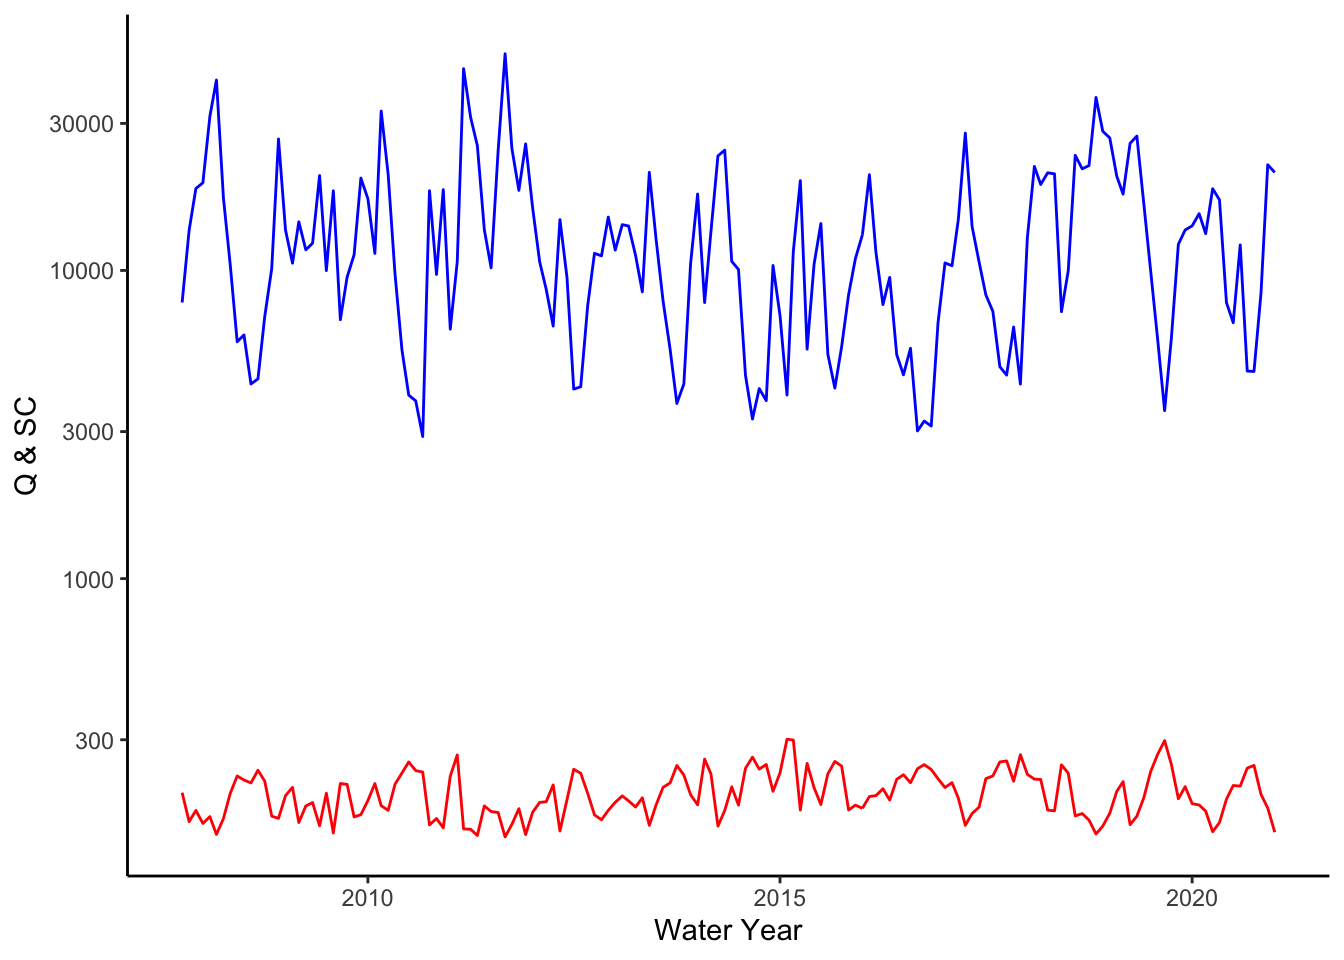
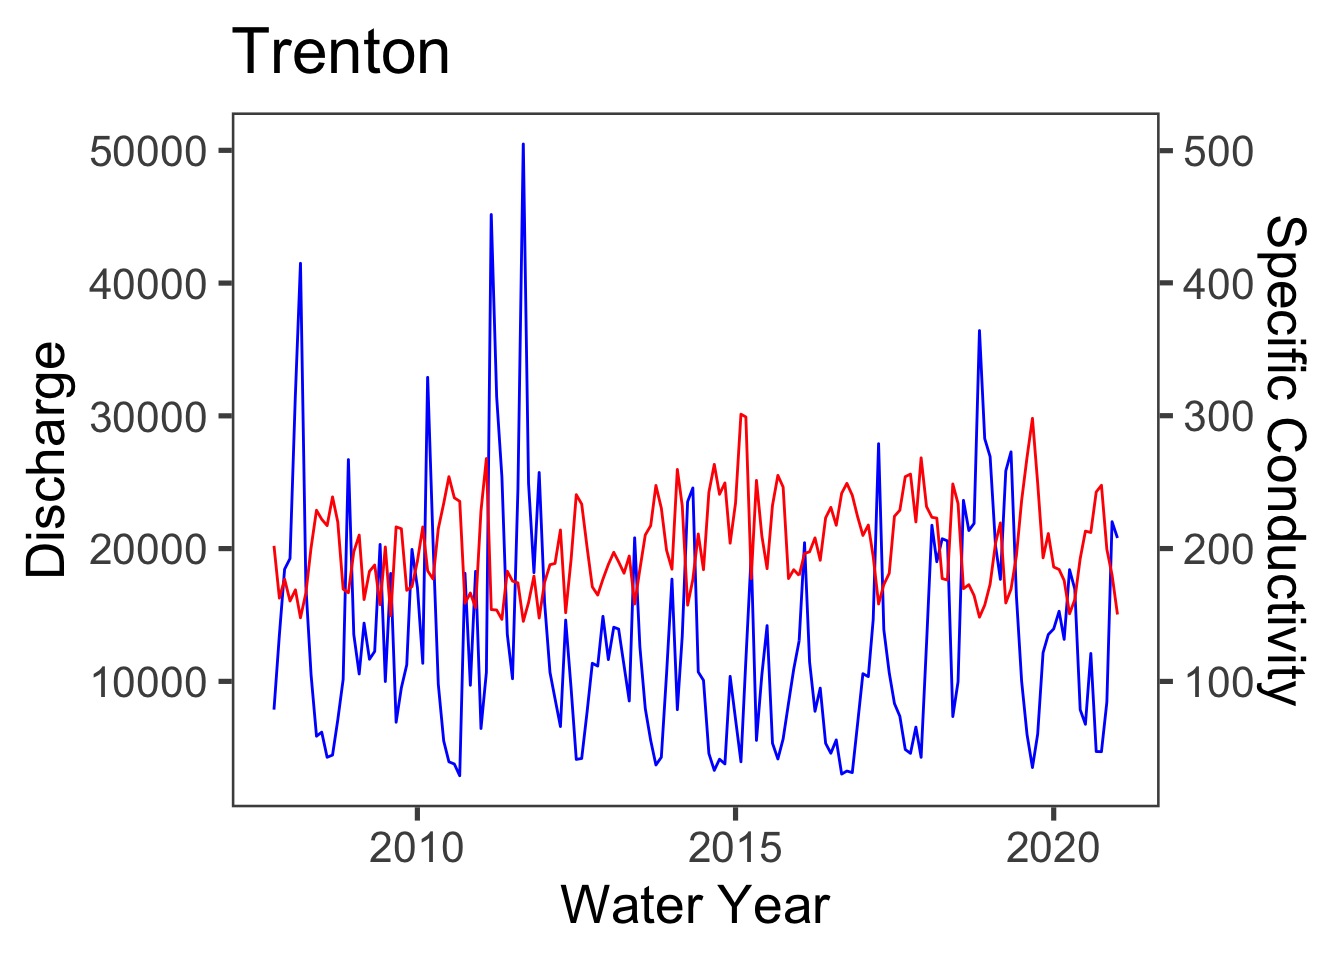
double axis plot

diff --git a/docs/results.html b/docs/results.html
@@ -141,7 +141,6 @@ code span.wa { color: #60a0b0; font-weight: bold; font-style: italic; } /* Warni
 <li class="chapter" data-level="2.2" data-path="methods.html"><a href="methods.html#watershed-map"><i class="fa fa-check"></i><b>2.2</b> Watershed map<span></span></a></li>
 <li class="chapter" data-level="2.3" data-path="methods.html"><a href="methods.html#data-acquisition"><i class="fa fa-check"></i><b>2.3</b> Data Acquisition<span></span></a></li>
 <li class="chapter" data-level="2.4" data-path="methods.html"><a href="methods.html#data-plot"><i class="fa fa-check"></i><b>2.4</b> Data plot<span></span></a></li>
-<li class="chapter" data-level="2.5" data-path="methods.html"><a href="methods.html#head"><i class="fa fa-check"></i><b>2.5</b> &lt;&lt;&lt;&lt;&lt;&lt;&lt; HEAD<span></span></a></li>
 </ul></li>
 <li class="chapter" data-level="3" data-path="results.html"><a href="results.html"><i class="fa fa-check"></i><b>3</b> Results<span></span></a>
 <ul>
@@ -367,15 +366,46 @@ values.</p>
 <span id="cb17-14"><a href="results.html#cb17-14" aria-hidden="true" tabindex="-1"></a></span>
 <span id="cb17-15"><a href="results.html#cb17-15" aria-hidden="true" tabindex="-1"></a>q_sc_t <span class="ot">&lt;-</span> <span class="fu">right_join</span>(q_month_means, sc_mean_t, <span class="at">by =</span> <span class="st">&#39;Date&#39;</span>)</span>
 <span id="cb17-16"><a href="results.html#cb17-16" aria-hidden="true" tabindex="-1"></a></span>
-<span id="cb17-17"><a href="results.html#cb17-17" aria-hidden="true" tabindex="-1"></a></span>
-<span id="cb17-18"><a href="results.html#cb17-18" aria-hidden="true" tabindex="-1"></a><span class="fu">ggplot</span>(q_sc_t) <span class="sc">+</span></span>
-<span id="cb17-19"><a href="results.html#cb17-19" aria-hidden="true" tabindex="-1"></a>  <span class="fu">geom_line</span>(<span class="fu">aes</span>(<span class="at">x =</span> Date, <span class="at">y =</span> q_mean),  <span class="at">color =</span><span class="st">&quot;blue&quot;</span>) <span class="sc">+</span></span>
-<span id="cb17-20"><a href="results.html#cb17-20" aria-hidden="true" tabindex="-1"></a>  <span class="fu">geom_line</span>(<span class="fu">aes</span>(<span class="at">x =</span> Date, <span class="at">y =</span> sc_mean1), <span class="at">color =</span> <span class="st">&quot;red&quot;</span>)<span class="sc">+</span></span>
+<span id="cb17-17"><a href="results.html#cb17-17" aria-hidden="true" tabindex="-1"></a>p1 <span class="ot">&lt;-</span> <span class="fu">ggplot</span>(q_sc_t) <span class="sc">+</span></span>
+<span id="cb17-18"><a href="results.html#cb17-18" aria-hidden="true" tabindex="-1"></a>  <span class="fu">geom_line</span>(<span class="fu">aes</span>(<span class="at">x =</span> Date, <span class="at">y =</span> q_mean),  <span class="at">color =</span><span class="st">&quot;blue&quot;</span>) <span class="sc">+</span></span>
+<span id="cb17-19"><a href="results.html#cb17-19" aria-hidden="true" tabindex="-1"></a>  <span class="fu">geom_line</span>(<span class="fu">aes</span>(<span class="at">x =</span> Date, <span class="at">y =</span> sc_mean1<span class="sc">*</span><span class="dv">100</span>), <span class="at">color =</span> <span class="st">&quot;red&quot;</span>)<span class="sc">+</span></span>
+<span id="cb17-20"><a href="results.html#cb17-20" aria-hidden="true" tabindex="-1"></a>  <span class="fu">xlab</span>(<span class="st">&#39;Water Year&#39;</span>)<span class="sc">+</span></span>
 <span id="cb17-21"><a href="results.html#cb17-21" aria-hidden="true" tabindex="-1"></a>  <span class="fu">scale_y_log10</span>()<span class="sc">+</span></span>
-<span id="cb17-22"><a href="results.html#cb17-22" aria-hidden="true" tabindex="-1"></a>  <span class="fu">ylab</span>(<span class="st">&#39;Q &amp; SC&#39;</span>) <span class="sc">+</span></span>
-<span id="cb17-23"><a href="results.html#cb17-23" aria-hidden="true" tabindex="-1"></a>  <span class="fu">xlab</span>(<span class="st">&#39;Water Year&#39;</span>)<span class="sc">+</span></span>
-<span id="cb17-24"><a href="results.html#cb17-24" aria-hidden="true" tabindex="-1"></a>  <span class="fu">theme_classic</span>()</span></code></pre></div>
+<span id="cb17-22"><a href="results.html#cb17-22" aria-hidden="true" tabindex="-1"></a>  <span class="fu">ylab</span>(<span class="st">&#39;Q&#39;</span>) <span class="sc">+</span></span>
+<span id="cb17-23"><a href="results.html#cb17-23" aria-hidden="true" tabindex="-1"></a>  <span class="fu">theme_classic</span>()</span>
+<span id="cb17-24"><a href="results.html#cb17-24" aria-hidden="true" tabindex="-1"></a></span>
+<span id="cb17-25"><a href="results.html#cb17-25" aria-hidden="true" tabindex="-1"></a>p1 <span class="sc">+</span> <span class="fu">scale_y_continuous</span>(<span class="at">name =</span> <span class="st">&quot;Discharge&quot;</span>, <span class="at">sec.axis =</span> <span class="fu">sec_axis</span>(<span class="at">trans =</span><span class="sc">~</span>. <span class="sc">/</span> <span class="dv">100</span>, <span class="at">name=</span> <span class="st">&quot;Specific Conductivity&quot;</span>))<span class="sc">+</span></span>
+<span id="cb17-26"><a href="results.html#cb17-26" aria-hidden="true" tabindex="-1"></a>  <span class="fu">theme_few</span>(<span class="at">base_size =</span><span class="dv">20</span>)<span class="sc">+</span></span>
+<span id="cb17-27"><a href="results.html#cb17-27" aria-hidden="true" tabindex="-1"></a>  <span class="fu">scale_color_identity</span>(<span class="at">guide =</span> <span class="st">&quot;legend&quot;</span>)<span class="sc">+</span></span>
+<span id="cb17-28"><a href="results.html#cb17-28" aria-hidden="true" tabindex="-1"></a>  <span class="fu">ggtitle</span>(<span class="st">&quot;Trenton&quot;</span>)</span></code></pre></div>
 <p><img src="Final-Project_files/figure-html/unnamed-chunk-18-1.png" width="672" /></p>
+<div class="sourceCode" id="cb18"><pre class="sourceCode r"><code class="sourceCode r"><span id="cb18-1"><a href="results.html#cb18-1" aria-hidden="true" tabindex="-1"></a>p1</span></code></pre></div>
+<p><img src="Final-Project_files/figure-html/unnamed-chunk-18-2.png" width="672" /></p>
+<div class="sourceCode" id="cb19"><pre class="sourceCode r"><code class="sourceCode r"><span id="cb19-1"><a href="results.html#cb19-1" aria-hidden="true" tabindex="-1"></a><span class="co">#site 2 and 3 sc</span></span>
+<span id="cb19-2"><a href="results.html#cb19-2" aria-hidden="true" tabindex="-1"></a></span>
+<span id="cb19-3"><a href="results.html#cb19-3" aria-hidden="true" tabindex="-1"></a>sc_mean_dm <span class="ot">&lt;-</span> sc_mean_dm <span class="sc">%&gt;%</span> </span>
+<span id="cb19-4"><a href="results.html#cb19-4" aria-hidden="true" tabindex="-1"></a>  <span class="fu">mutate</span>(<span class="at">day =</span> <span class="dv">1</span>)</span>
+<span id="cb19-5"><a href="results.html#cb19-5" aria-hidden="true" tabindex="-1"></a></span>
+<span id="cb19-6"><a href="results.html#cb19-6" aria-hidden="true" tabindex="-1"></a>sc_mean_dm<span class="sc">$</span>Date <span class="ot">&lt;-</span> <span class="fu">as.Date</span>(<span class="fu">with</span>(sc_mean_dm, <span class="fu">paste</span>(year, month, day, <span class="at">sep=</span> <span class="st">&quot;-&quot;</span>)),</span>
+<span id="cb19-7"><a href="results.html#cb19-7" aria-hidden="true" tabindex="-1"></a>                           <span class="st">&#39;%Y-%m-%d&#39;</span>)</span>
+<span id="cb19-8"><a href="results.html#cb19-8" aria-hidden="true" tabindex="-1"></a></span>
+<span id="cb19-9"><a href="results.html#cb19-9" aria-hidden="true" tabindex="-1"></a>sc_mean_sj <span class="ot">&lt;-</span> sc_mean_sj <span class="sc">%&gt;%</span> </span>
+<span id="cb19-10"><a href="results.html#cb19-10" aria-hidden="true" tabindex="-1"></a>  <span class="fu">mutate</span>(<span class="at">day =</span> <span class="dv">1</span>)</span>
+<span id="cb19-11"><a href="results.html#cb19-11" aria-hidden="true" tabindex="-1"></a></span>
+<span id="cb19-12"><a href="results.html#cb19-12" aria-hidden="true" tabindex="-1"></a>sc_mean_sj<span class="sc">$</span>Date <span class="ot">&lt;-</span> <span class="fu">as.Date</span>(<span class="fu">with</span>(sc_mean_sj, <span class="fu">paste</span>(year, month, day, <span class="at">sep=</span> <span class="st">&quot;-&quot;</span>)),</span>
+<span id="cb19-13"><a href="results.html#cb19-13" aria-hidden="true" tabindex="-1"></a>                           <span class="st">&#39;%Y-%m-%d&#39;</span>)</span>
+<span id="cb19-14"><a href="results.html#cb19-14" aria-hidden="true" tabindex="-1"></a></span>
+<span id="cb19-15"><a href="results.html#cb19-15" aria-hidden="true" tabindex="-1"></a>sc_dm_sj <span class="ot">&lt;-</span> <span class="fu">right_join</span>(sc_mean_dm, sc_mean_sj, <span class="at">by =</span><span class="st">&#39;Date&#39;</span>)</span>
+<span id="cb19-16"><a href="results.html#cb19-16" aria-hidden="true" tabindex="-1"></a></span>
+<span id="cb19-17"><a href="results.html#cb19-17" aria-hidden="true" tabindex="-1"></a><span class="fu">ggplot</span>(sc_dm_sj) <span class="sc">+</span></span>
+<span id="cb19-18"><a href="results.html#cb19-18" aria-hidden="true" tabindex="-1"></a>  <span class="fu">geom_line</span>(<span class="fu">aes</span>(<span class="at">x =</span> Date, <span class="at">y =</span> sc_mean2), <span class="at">color =</span> <span class="st">&quot;orange&quot;</span>)<span class="sc">+</span></span>
+<span id="cb19-19"><a href="results.html#cb19-19" aria-hidden="true" tabindex="-1"></a>  <span class="fu">geom_line</span>(<span class="fu">aes</span>(<span class="at">x =</span> Date, <span class="at">y =</span> sc_mean3), <span class="at">color =</span> <span class="st">&quot;green&quot;</span>)<span class="sc">+</span></span>
+<span id="cb19-20"><a href="results.html#cb19-20" aria-hidden="true" tabindex="-1"></a>  <span class="fu">scale_y_log10</span>()<span class="sc">+</span></span>
+<span id="cb19-21"><a href="results.html#cb19-21" aria-hidden="true" tabindex="-1"></a>  <span class="fu">ylab</span>(<span class="st">&#39;SC&#39;</span>) <span class="sc">+</span></span>
+<span id="cb19-22"><a href="results.html#cb19-22" aria-hidden="true" tabindex="-1"></a>  <span class="fu">xlab</span>(<span class="st">&#39;Water Year&#39;</span>)<span class="sc">+</span></span>
+<span id="cb19-23"><a href="results.html#cb19-23" aria-hidden="true" tabindex="-1"></a>  <span class="fu">theme_classic</span>()<span class="sc">+</span></span>
+<span id="cb19-24"><a href="results.html#cb19-24" aria-hidden="true" tabindex="-1"></a>  <span class="fu">scale_color_identity</span>(<span class="at">guide =</span> <span class="st">&quot;legend&quot;</span>)</span></code></pre></div>
+<p><img src="Final-Project_files/figure-html/unnamed-chunk-19-1.png" width="672" /></p>
 
 </div>
 </div>

diff --git a/docs/methods.html b/docs/methods.html
@@ -141,7 +141,6 @@ code span.wa { color: #60a0b0; font-weight: bold; font-style: italic; } /* Warni
 <li class="chapter" data-level="2.2" data-path="methods.html"><a href="methods.html#watershed-map"><i class="fa fa-check"></i><b>2.2</b> Watershed map<span></span></a></li>
 <li class="chapter" data-level="2.3" data-path="methods.html"><a href="methods.html#data-acquisition"><i class="fa fa-check"></i><b>2.3</b> Data Acquisition<span></span></a></li>
 <li class="chapter" data-level="2.4" data-path="methods.html"><a href="methods.html#data-plot"><i class="fa fa-check"></i><b>2.4</b> Data plot<span></span></a></li>
-<li class="chapter" data-level="2.5" data-path="methods.html"><a href="methods.html#head"><i class="fa fa-check"></i><b>2.5</b> &lt;&lt;&lt;&lt;&lt;&lt;&lt; HEAD<span></span></a></li>
 </ul></li>
 <li class="chapter" data-level="3" data-path="results.html"><a href="results.html"><i class="fa fa-check"></i><b>3</b> Results<span></span></a>
 <ul>
@@ -230,29 +229,6 @@ code span.wa { color: #60a0b0; font-weight: bold; font-style: italic; } /* Warni
 <p><img src="Final-Project_files/figure-html/unnamed-chunk-4-1.png" width="672" /></p>
 <p>The plot shows the discharge data in cfs for the Delaware river from 1995-09-30 to 2021-01-01. There is a lot of variation over the years that can be seen in this graph ranging from 0 to over 200,000 cfs.</p>
 
-</div>
-<div id="head" class="section level2 hasAnchor" number="2.5">
-<h2><span class="header-section-number">2.5</span> &lt;&lt;&lt;&lt;&lt;&lt;&lt; HEAD<a href="methods.html#head" class="anchor-section" aria-label="Anchor link to header"></a></h2>
-<p>output: html_document
-editor_options:
-chunk_output_type: console
-—
-=======</p>
-<blockquote>
-<blockquote>
-<blockquote>
-<blockquote>
-<blockquote>
-<blockquote>
-<blockquote>
-<p>a5a9a71d2b20a55f1176c65713efbaae503fb73f</p>
-</blockquote>
-</blockquote>
-</blockquote>
-</blockquote>
-</blockquote>
-</blockquote>
-</blockquote>
 <div class="sourceCode" id="cb5"><pre class="sourceCode r"><code class="sourceCode r"><span id="cb5-1"><a href="methods.html#cb5-1" aria-hidden="true" tabindex="-1"></a><span class="fu">write_csv</span>(q,<span class="fu">here</span>(<span class="st">&#39;data&#39;</span>,<span class="st">&#39;discharge.csv&#39;</span>))</span>
 <span id="cb5-2"><a href="methods.html#cb5-2" aria-hidden="true" tabindex="-1"></a></span>
 <span id="cb5-3"><a href="methods.html#cb5-3" aria-hidden="true" tabindex="-1"></a><span class="fu">write_csv</span>(sc1,<span class="fu">here</span>(<span class="st">&#39;data&#39;</span>,<span class="st">&quot;spefcond1.csv&quot;</span>))</span>

diff --git a/docs/index.html b/docs/index.html
@@ -141,7 +141,6 @@ code span.wa { color: #60a0b0; font-weight: bold; font-style: italic; } /* Warni
 <li class="chapter" data-level="2.2" data-path="methods.html"><a href="methods.html#watershed-map"><i class="fa fa-check"></i><b>2.2</b> Watershed map<span></span></a></li>
 <li class="chapter" data-level="2.3" data-path="methods.html"><a href="methods.html#data-acquisition"><i class="fa fa-check"></i><b>2.3</b> Data Acquisition<span></span></a></li>
 <li class="chapter" data-level="2.4" data-path="methods.html"><a href="methods.html#data-plot"><i class="fa fa-check"></i><b>2.4</b> Data plot<span></span></a></li>
-<li class="chapter" data-level="2.5" data-path="methods.html"><a href="methods.html#head"><i class="fa fa-check"></i><b>2.5</b> &lt;&lt;&lt;&lt;&lt;&lt;&lt; HEAD<span></span></a></li>
 </ul></li>
 <li class="chapter" data-level="3" data-path="results.html"><a href="results.html"><i class="fa fa-check"></i><b>3</b> Results<span></span></a>
 <ul>
@@ -179,7 +178,7 @@ code span.wa { color: #60a0b0; font-weight: bold; font-style: italic; } /* Warni
 <div id="header">
 <h1 class="title">Final Project</h1>
 <p class="author"><em>Cher Prazak</em></p>
-<p class="date"><em>12 Apr, 2022, 11:31 AM</em></p>
+<p class="date"><em>14 Apr, 2022, 11:03 AM</em></p>
 </div>
 <div id="introduction" class="section level1 hasAnchor" number="1">
 <h1><span class="header-section-number">1</span> Introduction<a href="index.html#introduction" class="anchor-section" aria-label="Anchor link to header"></a></h1>

diff --git a/docs/404.html b/docs/404.html
@@ -141,7 +141,6 @@ code span.wa { color: #60a0b0; font-weight: bold; font-style: italic; } /* Warni
 <li class="chapter" data-level="2.2" data-path="methods.html"><a href="methods.html#watershed-map"><i class="fa fa-check"></i><b>2.2</b> Watershed map<span></span></a></li>
 <li class="chapter" data-level="2.3" data-path="methods.html"><a href="methods.html#data-acquisition"><i class="fa fa-check"></i><b>2.3</b> Data Acquisition<span></span></a></li>
 <li class="chapter" data-level="2.4" data-path="methods.html"><a href="methods.html#data-plot"><i class="fa fa-check"></i><b>2.4</b> Data plot<span></span></a></li>
-<li class="chapter" data-level="2.5" data-path="methods.html"><a href="methods.html#head"><i class="fa fa-check"></i><b>2.5</b> &lt;&lt;&lt;&lt;&lt;&lt;&lt; HEAD<span></span></a></li>
 </ul></li>
 <li class="chapter" data-level="3" data-path="results.html"><a href="results.html"><i class="fa fa-check"></i><b>3</b> Results<span></span></a>
 <ul>

diff --git a/docs/references.html b/docs/references.html
@@ -141,7 +141,6 @@ code span.wa { color: #60a0b0; font-weight: bold; font-style: italic; } /* Warni
 <li class="chapter" data-level="2.2" data-path="methods.html"><a href="methods.html#watershed-map"><i class="fa fa-check"></i><b>2.2</b> Watershed map<span></span></a></li>
 <li class="chapter" data-level="2.3" data-path="methods.html"><a href="methods.html#data-acquisition"><i class="fa fa-check"></i><b>2.3</b> Data Acquisition<span></span></a></li>
 <li class="chapter" data-level="2.4" data-path="methods.html"><a href="methods.html#data-plot"><i class="fa fa-check"></i><b>2.4</b> Data plot<span></span></a></li>
-<li class="chapter" data-level="2.5" data-path="methods.html"><a href="methods.html#head"><i class="fa fa-check"></i><b>2.5</b> &lt;&lt;&lt;&lt;&lt;&lt;&lt; HEAD<span></span></a></li>
 </ul></li>
 <li class="chapter" data-level="3" data-path="results.html"><a href="results.html"><i class="fa fa-check"></i><b>3</b> Results<span></span></a>
 <ul>
